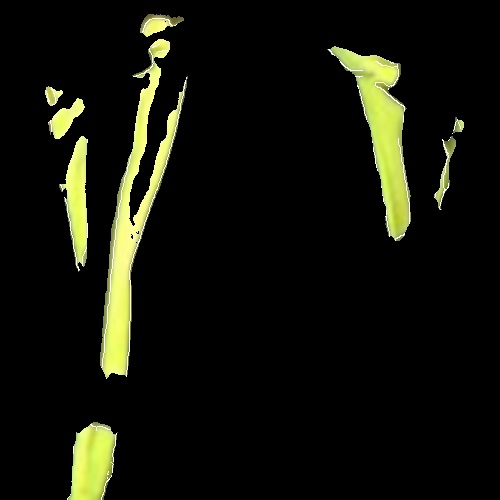
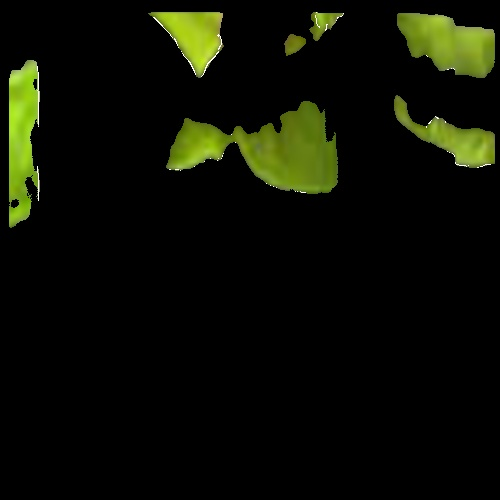
clean up project

diff --git a/src/high_vis_recognition/identify_roi.py b/src/high_vis_recognition/identify_roi.py
@@ -1,0 +1,79 @@
+import cv2
+import numpy as np
+
+image_input_path = './high_vis_recognition/pre_processed_images/gaussian_blur.jpg'
+image_output_path_base = './high_vis_recognition/roi_images/'
+
+lower_color_green = np.array([25, 100, 100])
+upper_color_green = np.array([40, 255, 255])
+
+#TODO: Adjust in order to detect gray strips
+#lower_color_green = np.array([100, 100, 100], dtype=np.uint8)
+#upper_color_green = np.array([255, 255, 255],dtype=np.uint8)
+
+# image to be a numpy array
+def return_edges(image):
+
+    edges = cv2.Canny(image, 90, 150)
+    #edges_image = Image.fromarray(edges)
+    #edges_image.save(image_output_path_base + 'edges.jpg')
+    return edges
+
+def colour_based_segmentation(image_array):
+
+    hsv_image = cv2.cvtColor(image_array, cv2.COLOR_BGR2HSV)
+
+    #lower_color_orange = np.array([10, 100, 100])
+    #upper_color_orange = np.array([20, 255, 255])   
+
+    #mask_green = cv2.inRange(hsv_image, lower_color_green, upper_color_green) 
+    #mask_orange = cv2.inRange(hsv_image, lower_color_green, upper_color_green) 
+
+    #final_mask = cv2.bitwise_or(mask_green, mask_orange)
+
+    color_mask = cv2.inRange(hsv_image, lower_color_green, upper_color_green)
+
+    segmented_image = cv2.bitwise_and(image_array, image_array, mask=color_mask)
+
+    return segmented_image
+
+def get_contours(segmented_image, min_contour_area=75):
+    # Find contours in the binary image
+    contours, _ = cv2.findContours(cv2.cvtColor(segmented_image, cv2.COLOR_BGR2GRAY), cv2.RETR_EXTERNAL, cv2.CHAIN_APPROX_SIMPLE)
+
+    # Filter contours based on area
+    filtered_contours = [cnt for cnt in contours if cv2.contourArea(cnt) > min_contour_area]
+
+    # Create an empty mask
+    mask = np.zeros_like(segmented_image)
+
+    # Draw contours on the mask
+    cv2.drawContours(mask, filtered_contours, -1, (255, 255, 255), thickness=cv2.FILLED)
+
+    # Apply the mask to the original image
+    result_image = cv2.bitwise_and(segmented_image, mask)
+
+    return result_image
+
+def identify_roi(preprocessed_image_array):
+    edges = return_edges(preprocessed_image_array)
+    segmented_image = colour_based_segmentation(preprocessed_image_array)
+
+    # Filter edges based on the presence of segmented color
+    edges_with_color = cv2.bitwise_and(edges, edges, mask=cv2.cvtColor(segmented_image, cv2.COLOR_BGR2GRAY))
+
+    combined_image = cv2.addWeighted(segmented_image, 1, cv2.cvtColor(edges_with_color, cv2.COLOR_GRAY2BGR), 1, 0)
+
+    filer_by_contour = get_contours(combined_image)
+
+    return filer_by_contour, combined_image
+
+    
+
+#colour_based_segmentation(image_input_path)
+
+#cv2.imshow('Original Image', image)
+#cv2.imshow('Color Mask', color_mask)
+#cv2.imshow('Segmented Image', segmented_image)
+#cv2.waitKey(0)
+#cv2.destroyAllWindows()

diff --git a/src/edge_detection/sobel_edge_detector.py b/src/edge_detection/sobel_edge_detector.py
@@ -1,0 +1,93 @@
+from PIL import Image
+import numpy as np
+
+# Sobel Kernels
+sobel_kernel_x = np.array([
+    [-1, 0, 1], 
+    [-2, 0, 2], 
+    [-1, 0, 1]
+    ])
+
+sobel_kernel_y = np.array([
+    [-1, -2, -1], 
+    [0, 0, 0], 
+    [1, 2, 1]
+    ])
+
+def convolve_image(image_path, kernel):
+
+    original_image = Image.open(image_path)
+    
+    image = original_image.convert('L')
+    
+    # gets intensity values
+    image_data = list(image.getdata())
+
+    width, height = image.size
+
+    image_array = []
+
+    # iterate through each row
+    for i in range(height):
+
+        # get start and end index for row
+        start_index = i*width
+        end_index = (i+1) * width
+
+        # slice to get intensity values for current row
+        row_values = image_data[start_index:end_index]
+        
+        # add row values to image_array (2d)
+        image_array.append(row_values)
+
+    image_array = np.array(image_array, dtype=float)
+
+    image_height, image_width = image_array.shape
+
+    kernel_height, kernel_width = kernel.shape
+
+    convolved_image = np.zeros_like(image_array, dtype=float)
+
+    # iterate over valid positions that kernel can be applied on
+    for i in range(image_height - kernel_height + 1):
+
+        for j in range(image_width - kernel_width + 1):
+
+            # define range of rows & columns where kernel can be applied
+            start_row, end_row = i, i + kernel_height
+            start_col, end_col = j, j + kernel_width
+            
+            # convolve kernel over selected image region and store the result
+            convolved_image[i, j] = np.sum(image_array[start_row:end_row, start_col:end_col] * kernel)
+    
+    return convolved_image
+
+def apply_sobel_filter(image_array):
+
+    gradient_x = convolve_image(image_array, sobel_kernel_x)
+    gradient_y = convolve_image(image_array, sobel_kernel_y)
+
+    gradient_magnitude = np.sqrt(np.square(gradient_x) + np.square(gradient_y))
+
+    threshold = 100 
+    thresholded_image = Image.fromarray((gradient_magnitude > threshold).astype(np.uint8) * 255)
+
+    return gradient_magnitude, thresholded_image
+
+#image_path = 'edge_detection/test_images/cameraGuy.png'
+image_path = './test_images/gaussian_blur.jpg'
+gradient_magnitude, thresholded_image = apply_sobel_filter(image_path)
+
+Image.fromarray(gradient_magnitude.astype(np.uint8)).save('gradient_magnitude_result.png')
+
+output_path = 'edge_detection/output_images/thresholded_result.png'
+
+thresholded_image.save(output_path)
+
+
+
+
+
+
+
+

diff --git a/src/detect_person.py b/src/detect_person.py
@@ -1,0 +1,68 @@
+from high_vis_recognition.pre_process_image import preprocess_image
+from high_vis_recognition.identify_roi import identify_roi
+import cv2
+import numpy as np
+
+face_cascade = cv2.CascadeClassifier('cascades/data/haarcascade_frontalface_alt2.xml')
+
+image = cv2.imread('test_images/peoplehv_3.jpg')
+
+gray_img = cv2.cvtColor(image, cv2.COLOR_BGR2GRAY)
+
+# Params:
+# scaleFactor - specifying how much the image size is reduced at each image scale.
+# minNeighbours - specifies how many neighboring rectangles need to agree that a region is a detected object
+# minSize - sets the smallest object size you want to detect
+# maxSize - sets the largest object size you want to detect
+
+faces = face_cascade.detectMultiScale(gray_img, scaleFactor=1.1, minNeighbors=3)
+
+if len(faces) == 0:
+        print("No Person Detected")
+
+for (x, y, w, h) in faces:
+
+    print(x,y,w,h)
+    
+    ### Rectangle for Detected Faces ###
+    color = (255, 0, 0)
+    stroke = 2
+    end_cord_x = x + w
+    end_cord_y = y + h
+
+    # draw the rectangle
+    cv2.rectangle(image, (x,y), (end_cord_x, end_cord_y), color, stroke)
+
+    ### Torso Rectangle ###
+    second_rectangle_y = y + h  
+
+    second_start_cord_x = int(x - (h ))
+    second_end_cord_x = int(x + (2*h ))
+
+    second_end_cord_y = end_cord_y + h* 4
+    
+    # Draw the second rectangle
+    cv2.rectangle(image, (second_start_cord_x, second_rectangle_y), (second_end_cord_x, second_end_cord_y), color, stroke)
+
+    # Currently the code is only effective on one person
+
+    ### Look for High Vis on Torso ###
+    roi_torso = image[second_rectangle_y:second_end_cord_y, second_start_cord_x:second_end_cord_x]
+    roi_torso_array = np.array(roi_torso)
+    # pre process image
+    pre_processed_image = preprocess_image(roi_torso_array, 500, 500)
+
+    # identify roi
+    filtered_image, segmented_image = identify_roi(pre_processed_image)
+    cv2.imwrite("filteredImg.jpg", filtered_image)
+
+    is_empty = np.all(filtered_image == 0)
+
+    if is_empty:
+        print("The person is NOT wearing a high vis.")
+    else:
+        print("The person is wearing a high vis")
+
+cv2.imshow('face detection', image)
+cv2.waitKey(0)
+cv2.destroyAllWindows()

diff --git a/src/high_vis_recognition/pre_process_image.py b/src/high_vis_recognition/pre_process_image.py
@@ -1,0 +1,55 @@
+import cv2
+import numpy as np
+
+image_input_path = './test_images/high_vis_2.jpg'
+image_output_path_base = './high_vis_recognition/pre_processed_images/'
+
+target_width = 512
+target_height = 512
+
+gaussian_blur_kernel_3x3 = np.array(([1,2,1],
+                                 [2,4,2],
+                                 [1,2,1])) / 16
+
+gaussian_blur_kernel_5x5 =  np.array([[1, 4, 7, 4, 1],
+                                     [4, 16, 26, 16, 4],
+                                     [7, 26, 41, 26, 7],
+                                     [4, 16, 26, 16, 4],
+                                     [1, 4, 7, 4, 1]]) / 273.0
+
+# convert image to a numpy array
+def image_path_to_numpy_array(image_path):
+
+    image_array = cv2.imread(image_path)
+
+    return image_array
+
+# Resize the image
+def resize_image(image_array, target_width, target_height):
+
+    resized_image = cv2.resize(image_array, (target_width, target_height))
+
+    return resized_image
+
+def apply_blur(image_array, kernel):
+
+    blurred_image_array = cv2.filter2D(image_array, -1, kernel)
+
+    #convert array to image
+    #blurred_image = Image.fromarray(blurred_image_array)
+
+    return blurred_image_array
+
+def preprocess_image(image_input_path, target_width, target_height):
+
+    #image_array = image_path_to_numpy_array(image_input_path)
+
+    #resized_image = resize_image(image_array, target_width, target_height)
+
+    resized_image = resize_image(image_input_path, target_width, target_height)
+
+    blurred_image = apply_blur(resized_image, gaussian_blur_kernel_5x5)
+
+    return blurred_image
+
+#preprocess_image(image_input_path, target_width, target_height)

diff --git a/main.py b/main.py
@@ -3,7 +3,7 @@ import numpy as np
 from high_vis_recognition.pre_process_image import preprocess_image
 from high_vis_recognition.identify_roi import identify_roi, return_edges
 
-input_image_path = "test_images/parking_warden_1.jpg"
+input_image_path = "test_images/high_vis_test.jpeg"
 target_width = 300
 target_height = 300
 

diff --git a/cascades/data/__init__.py b/cascades/data/__init__.py
@@ -1,0 +1,3 @@
+import os
+
+haarcascades = os.path.join(os.path.dirname(__file__), "")
